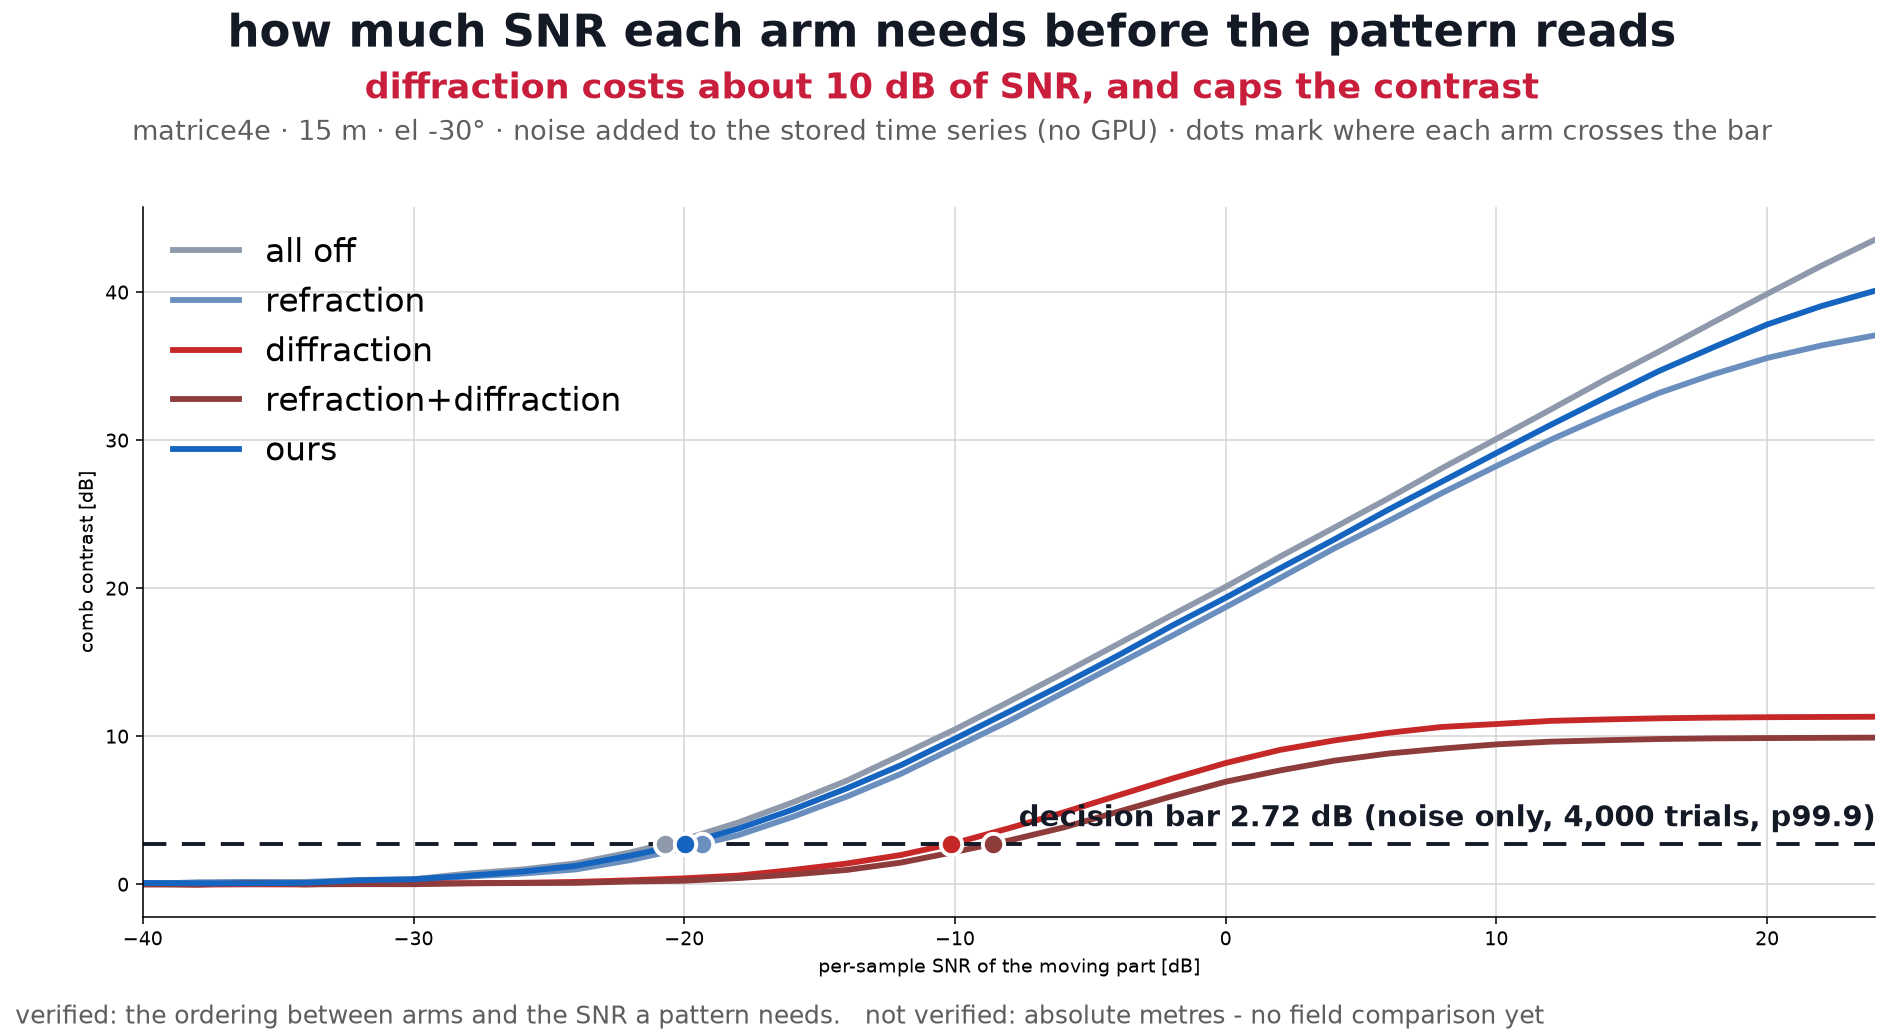
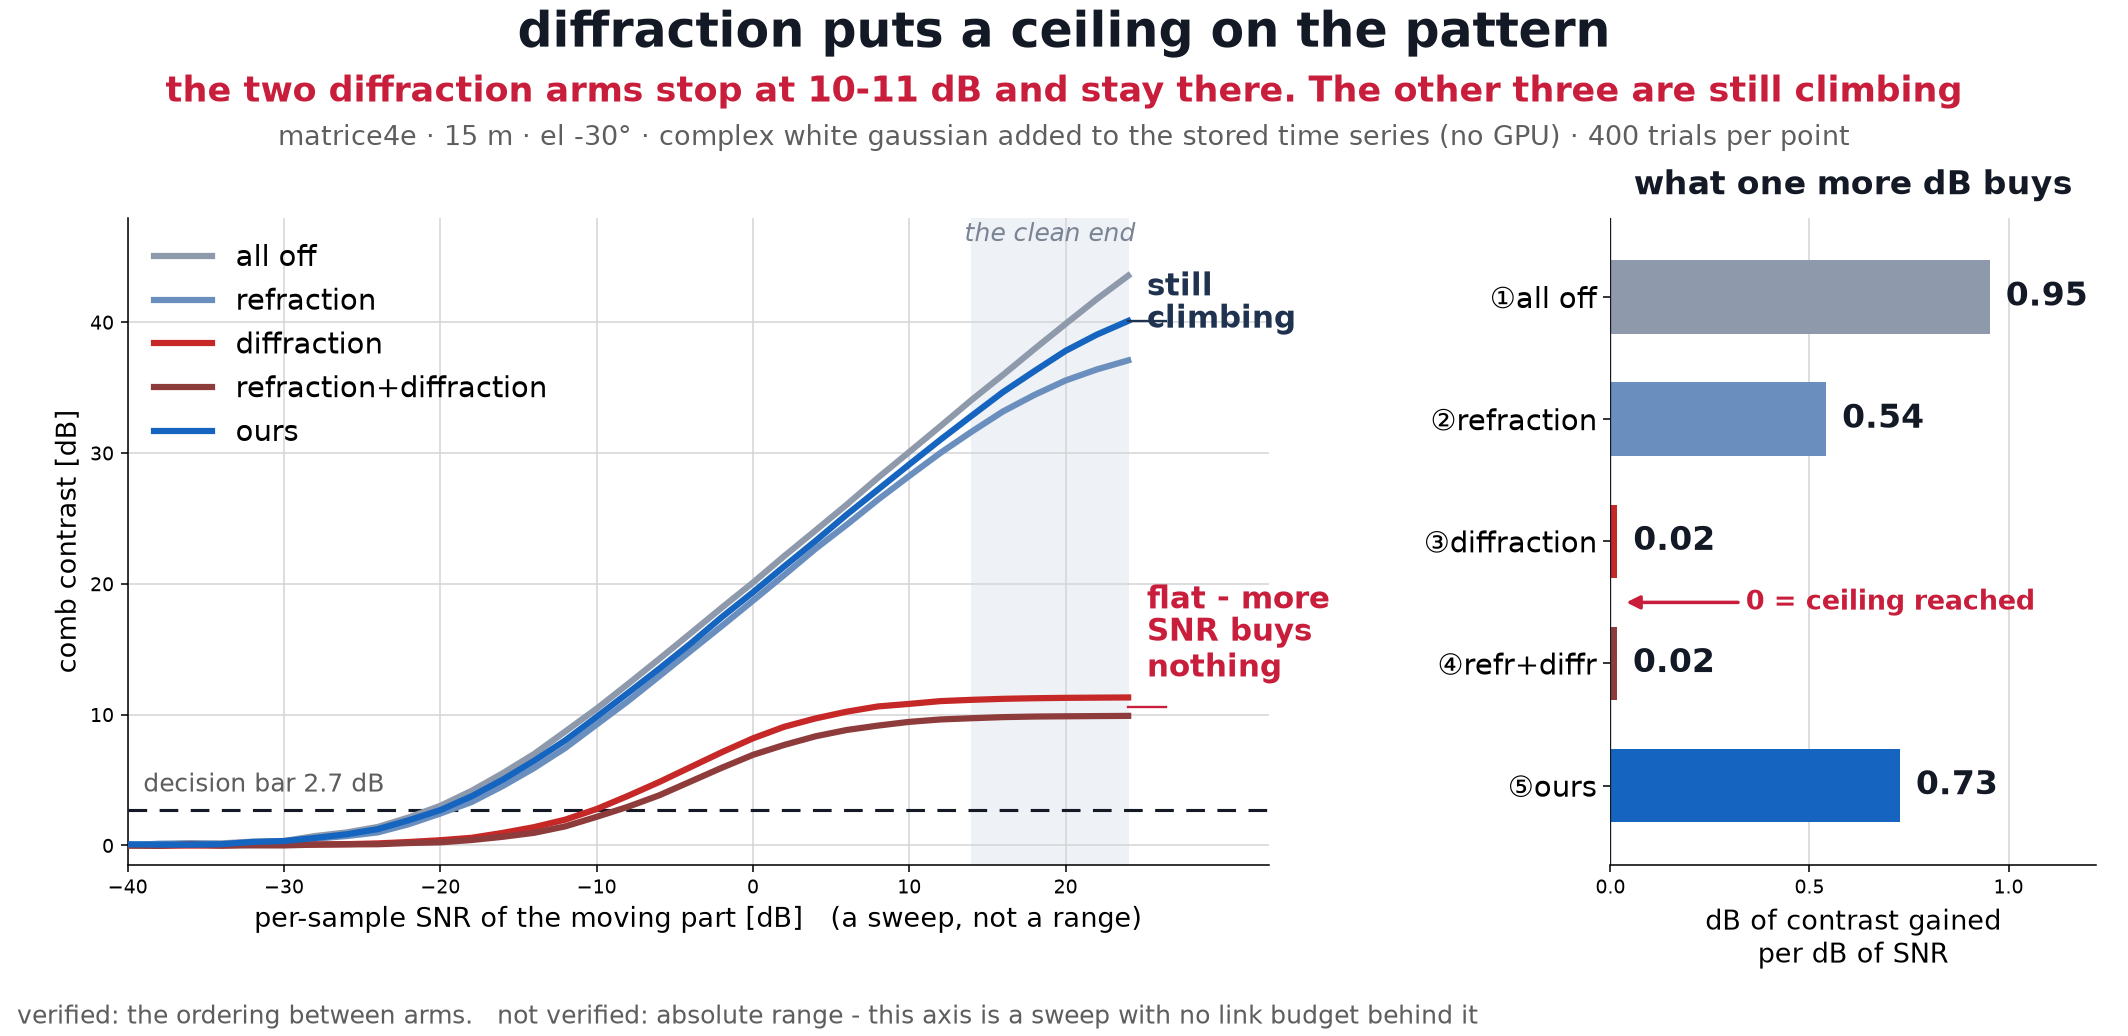
13장 그림을 «천장» 하나로 다시 짰다 + --replot 추가
옛 판은 두 말을 겹쳤다: 필요 SNR(점 다섯이 겹쳐 안 읽혔다) + 천장.
가로축에 링크버짓 앵커가 없어 «-20 dB 가 몇 미터냐» 에 답이 없으니
앵커 없이도 서는 사실 하나로 좁혔다 — 깨끗한 끝 10 dB 기울기:
  다끔 0.95 / ours 0.73 / 굴절 0.54  vs  회절 0.02 / 굴절+회절 0.02
회절 두 팔은 0 — 잡음을 걷어도 안 올라간다. 오른쪽 막대판으로 세웠다.

--replot 은 원장 곡선을 재사용해 시뮬(33 SNR x 5 팔 x 400 시행) 없이 그림만 낸다.

diff --git a/benchmark/noise_five_arms_0901.py b/benchmark/noise_five_arms_0901.py
@@ -97,41 +97,10 @@ def main():
         print(f"  {lab:<24} 최대 {max(ys):>6.1f} dB · 필요 SNR "
               f"{'—' if need[lab] is None else f'{need[lab]:+.1f} dB'}")
 
-    # ── 그림
-    fig, ax = plt.subplots(figsize=(13.6, 7.4))
-    for lab, bits, col in ARMS:
-        ax.plot(SNRS, curves[lab], "-", color=col, lw=3.0,
-                label=lab.split("(")[0].strip()[1:])
-        if need[lab] is not None:
-            ax.plot([need[lab]], [bar], "o", ms=11, color=col, mec="white", mew=2,
-                    zorder=6)
-    ax.axhline(bar, color="#141926", lw=2.0, ls=(0, (6, 4)))
-    ax.text(SNRS[-1], bar + 1.2, f"decision bar {bar:.2f} dB "
-            f"(noise only, {N_TRIAL:,} trials, p99.9)",
-            ha="right", fontsize=15, color="#141926", weight="bold")
-    ax.set_xlabel("per-sample SNR of the moving part [dB]")
-    ax.set_ylabel("comb contrast [dB]")
-    ax.set_xlim(SNRS[0], SNRS[-1])
-    ax.grid(True, color="#D5D5D5", lw=0.8)
-    ax.set_axisbelow(True)
-    for s in ("top", "right"):
-        ax.spines[s].set_visible(False)
-    ax.legend(fontsize=17, frameon=False, loc="upper left")
-    fig.subplots_adjust(top=0.80, bottom=0.115, left=0.075, right=0.985)
-    fig.text(0.5, 0.955, "how much SNR each arm needs before the pattern reads",
-             ha="center", fontsize=23, color="#141926", weight="bold")
-    fig.text(0.5, 0.905, "diffraction costs about 10 dB of SNR, and caps the contrast",
-             ha="center", fontsize=18, color="#C81E3C", weight="bold")
-    fig.text(0.5, 0.865, f"matrice4e · 15 m · el {EL:+.0f}{chr(176)} · noise added to the "
-             f"stored time series (no GPU) · dots mark where each arm crosses the bar",
-             ha="center", fontsize=14, color="#5E5E5E")
-    fig.text(0.008, 0.012, "verified: the ordering between arms and the SNR a pattern "
-             "needs.   not verified: absolute metres - no field comparison yet",
-             ha="left", fontsize=13, color="#5E5E5E")
-    p = f"{FIG}/vol_noise_five_arms.png"
-    fig.savefig(p, dpi=140)
-    plt.close(fig)
-    print(f"  ✅ {p}")
+    d = dict(snr_db=[float(v) for v in SNRS], curves=curves,
+             snr_needed_db=need, bar_db=bar)
+    plot_arms(d)
+
 
     # ── ⓑ 무늬가 녹는 과정 — 같은 판에 잡음만 올린다 (덱 12 장)
     #    ⚠옛 그림은 **정본 메쉬 이전** 팔(ours_r15_n8192)을 썼다 — 덱의 나머지와 판이 달랐다.
@@ -186,6 +155,105 @@ def main():
     print(f"  ✅ {OUT}")
 
 
+def plot_arms(d):
+    """⭐13 장 그림 — «천장» 하나만 말한다.
+
+    ⛔옛 판은 두 말을 겹쳤다: «필요 SNR 이 얼마인가»(왼쪽 아래, 점 다섯이 겹쳐
+       읽히지도 않았다) + «천장이 있다»(오른쪽). 청중은 어느 쪽을 보는지 몰랐다.
+       가로축에 링크버짓 앵커가 없으니 «−20 dB 가 몇 미터인가» 도 답이 없다.
+       ⇒ 앵커 없이도 서는 사실 하나로 좁힌다: **회절을 켜면 무늬에 천장이 생기고,
+         SNR 을 더 줘도 안 올라간다.** 기울기(dB/dB)로 재서 오른쪽 판에 세운다.
+    """
+    x = np.asarray(d["snr_db"], float)
+    bar = float(d.get("bar_db") or d["_meta"]["bar_db"])   # 원장은 _meta 밑에 둔다
+    sel = x >= x[-1] - 10.0                       # 마지막 10 dB — «깨끗한 끝»
+    slope = {k: float(np.polyfit(x[sel], np.asarray(v, float)[sel], 1)[0])
+             for k, v in d["curves"].items()}
+
+    fig, (ax, bx) = plt.subplots(1, 2, figsize=(15.2, 7.4),
+                                 gridspec_kw=dict(width_ratios=[2.35, 1.0], wspace=0.42))
+    #: ⭐오른쪽에 여백을 내고 **곡선 끝에 바로** 이름을 붙인다 — 화살표가 곡선을 덮었다
+    xr = x[-1] + 9.0
+    ax.axvspan(x[-1] - 10.0, x[-1], color="#EEF1F5", zorder=0)
+    ax.text(x[-1] - 5.0, 46.2, "the clean end", ha="center", fontsize=13,
+            color="#7A8494", style="italic")
+    for lab, bits, col in ARMS:
+        y = np.asarray(d["curves"][lab], float)
+        ax.plot(x, y, "-", color=col, lw=3.2, zorder=4,
+                label=lab.split("(")[0].strip()[1:])
+    ax.axhline(bar, color="#141926", lw=1.6, ls=(0, (6, 4)), zorder=3)
+    ax.text(x[0] + 1.0, bar + 1.4, f"decision bar {bar:.1f} dB", fontsize=13,
+            color="#5E5E5E")
+
+    ax.plot([x[-1], xr - 6.6], [40.1, 40.1], "-", color="#1F3350", lw=1.2, zorder=5)
+    ax.text(x[-1] + 1.2, 41.6, "still\nclimbing", fontsize=16, color="#1F3350",
+            weight="bold", va="center", linespacing=1.15)
+    ax.plot([x[-1], xr - 6.6], [10.6, 10.6], "-", color="#C81E3C", lw=1.2, zorder=5)
+    ax.text(x[-1] + 1.2, 12.2, "flat - more\nSNR buys\nnothing", fontsize=16,
+            color="#C81E3C", weight="bold", va="bottom", linespacing=1.15)
+
+    ax.set_xlabel("per-sample SNR of the moving part [dB]   (a sweep, not a range)",
+                  fontsize=14)
+    ax.set_ylabel("comb contrast [dB]", fontsize=14)
+    ax.set_xlim(x[0], xr); ax.set_ylim(-1.5, 48.0)
+    ax.set_xticks([-40, -30, -20, -10, 0, 10, 20])
+    ax.grid(True, color="#D5D5D5", lw=0.8); ax.set_axisbelow(True)
+    for sp in ("top", "right"):
+        ax.spines[sp].set_visible(False)
+    ax.legend(fontsize=15, frameon=False, loc="upper left")
+
+    #: ⭐오른쪽 — 같은 사실을 한 눈금으로. 0 이면 천장을 친 것이다.
+    labs = [a[0] for a in ARMS][::-1]
+    short = {a[0]: a[0].split("(")[0].strip().replace("refraction+diffraction",
+                                                      "refr+diffr") for a in ARMS}
+    ypos = np.arange(len(labs))
+    bx.barh(ypos, [slope[l] for l in labs],
+            color=[dict((a[0], a[2]) for a in ARMS)[l] for l in labs], height=0.60)
+    for yi, l in zip(ypos, labs):
+        bx.text(slope[l] + 0.04, yi, f"{slope[l]:.2f}", va="center", fontsize=17,
+                color="#141926", weight="bold")
+    bx.set_yticks(ypos)
+    bx.set_yticklabels([short[l] for l in labs], fontsize=15)
+    bx.set_ylim(-0.65, len(labs) - 0.35)
+    bx.set_xlim(0, 1.22)
+    bx.set_xticks([0, 0.5, 1.0])
+    bx.set_xlabel("dB of contrast gained\nper dB of SNR", fontsize=14)
+    bx.set_title("what one more dB buys", fontsize=17, color="#141926",
+                 weight="bold", pad=12)
+    bx.axvline(0.0, color="#141926", lw=1.2)
+    bx.grid(True, axis="x", color="#D5D5D5", lw=0.8); bx.set_axisbelow(True)
+    for sp in ("top", "right", "left"):
+        bx.spines[sp].set_visible(False)
+    bx.annotate("0 = ceiling reached", xy=(0.03, 1.5), xytext=(0.34, 1.5),
+                fontsize=14, color="#C81E3C", weight="bold", va="center",
+                arrowprops=dict(arrowstyle="-|>", color="#C81E3C", lw=1.8))
+
+    fig.subplots_adjust(top=0.790, bottom=0.165, left=0.060, right=0.985)
+    fig.text(0.5, 0.955, "diffraction puts a ceiling on the pattern",
+             ha="center", fontsize=25, color="#141926", weight="bold")
+    fig.text(0.5, 0.902, "the two diffraction arms stop at 10-11 dB and stay there. "
+             "The other three are still climbing",
+             ha="center", fontsize=18, color="#C81E3C", weight="bold")
+    fig.text(0.5, 0.860, f"matrice4e {chr(183)} 15 m {chr(183)} el {EL:+.0f}{chr(176)} "
+             f"{chr(183)} complex white gaussian added to the stored time series "
+             f"(no GPU) {chr(183)} 400 trials per point",
+             ha="center", fontsize=14, color="#5E5E5E")
+    fig.text(0.008, 0.012, "verified: the ordering between arms.   not verified: "
+             "absolute range - this axis is a sweep with no link budget behind it",
+             ha="left", fontsize=13, color="#5E5E5E")
+    p = f"{FIG}/vol_noise_five_arms.png"
+    fig.savefig(p, dpi=140)
+    plt.close(fig)
+    print(f"  ✅ {p}")
+
+
 if __name__ == "__main__":
     print("═══ 잡음 · 다섯 팔 ═══")
-    main()
+    # ⭐--replot : 곡선은 원장에 이미 있다 — 다시 안 돌리고 그림만 새로 낸다.
+    #   (한 판이 33 SNR × 5 팔 × 400 시행이라 재실행이 아깝다)
+    if "--replot" in sys.argv:
+        _d = json.load(open(OUT, encoding="utf-8"))
+        plot_arms(_d)          # ⚠plot_arms 가 스스로 저장하고 닫는다 — 여기서 또 저장하면
+        print("  (원장 재사용 · 시뮬 안 돌림)")   #   gcf() 가 빈 캔버스라 덮어써 버린다
+    else:
+        main()
